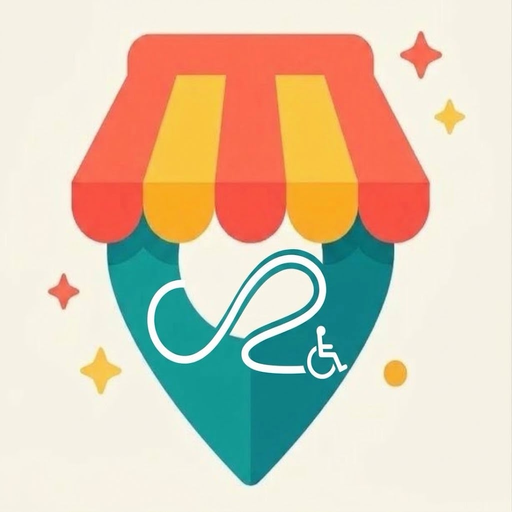
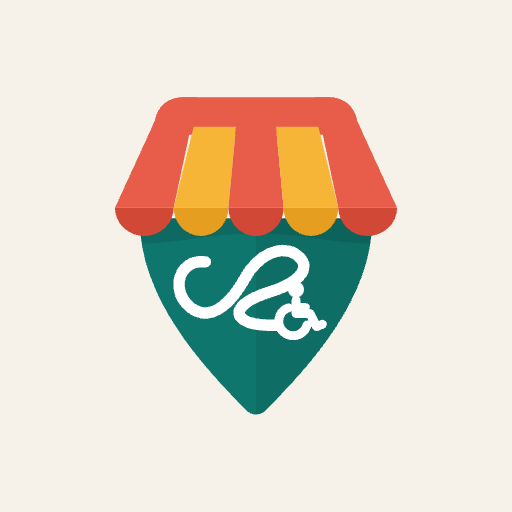
refactor: update branding and manifest settings
Update manifest theme colors, refresh icon assets, and clean up logo SVG implementation in index.html to align with new branding.

diff --git a/index.html b/index.html
@@ -33,22 +33,32 @@
   <div class="wrap bar">
     <a class="logo" href="#inicio" aria-label="VitrineCentro — página inicial">
       <svg class="logo-svg" viewBox="0 0 64 64" width="38" height="38" aria-hidden="true" focusable="false">
-        <path class="logo-spark-coral" d="M56 12 L57.4 15.2 L60.6 16.6 L57.4 18 L56 21.2 L54.6 18 L51.4 16.6 L54.6 15.2 Z" fill="#E85D4A"/>
-        <path class="logo-spark-sun" d="M8 38 L9.1 40.4 L11.5 41.5 L9.1 42.6 L8 45 L6.9 42.6 L4.5 41.5 L6.9 40.4 Z" fill="#F7B538"/>
-        <circle class="logo-spark-sun" cx="55" cy="46" r="2.3" fill="#F7B538"/>
-        <path class="logo-pin" d="M13 27 C13 38.5 22.8 49.6 30.3 57.6 C31.2 58.6 32.8 58.6 33.7 57.6 C41.2 49.6 51 38.5 51 27 Z" fill="#0F766E"/>
-        <path class="logo-pin-shade" d="M32 27 H51 C51 38.5 41.2 49.6 33.7 57.6 C33.1 58.2 32.5 58.4 32 58.4 Z" fill="#0B5D56" opacity="0.45"/>
-        <circle class="logo-pin-hole" cx="32" cy="35" r="8.6" fill="var(--header-bg, #FFFFFF)"/>
-        <path class="logo-coral" d="M15.2 10.6 C15.7 9 16.9 8 18.6 8 H21.8 L18.2 24 H9 Z" fill="#E85D4A"/>
-        <path class="logo-sun" d="M21.8 8 H28.6 L27.4 24 H18.2 Z" fill="#F7B538"/>
-        <path class="logo-coral" d="M28.6 8 H35.4 L36.6 24 H27.4 Z" fill="#E85D4A"/>
-        <path class="logo-sun" d="M35.4 8 H42.2 L45.8 24 H36.6 Z" fill="#F7B538"/>
-        <path class="logo-coral" d="M42.2 8 H45.4 C47.1 8 48.3 9 48.8 10.6 L55 24 H45.8 Z" fill="#E85D4A"/>
-        <path class="logo-coral-dark" d="M9 24 A4.6 4.6 0 0 0 18.2 24 Z" fill="#D14936"/>
-        <path class="logo-sun-dark" d="M18.2 24 A4.6 4.6 0 0 0 27.4 24 Z" fill="#E59E1F"/>
-        <path class="logo-coral-dark" d="M27.4 24 A4.6 4.6 0 0 0 36.6 24 Z" fill="#D14936"/>
-        <path class="logo-sun-dark" d="M36.6 24 A4.6 4.6 0 0 0 45.8 24 Z" fill="#E59E1F"/>
-        <path class="logo-coral-dark" d="M45.8 24 A4.6 4.6 0 0 0 55 24 Z" fill="#D14936"/>
+        <defs>
+          <clipPath id="vc-pin-clip-head">
+            <path d="M12.2 26.2 C12.2 39.8 22.8 51.2 30.4 58.9 C31.3 59.8 32.7 59.8 33.6 58.9 C41.2 51.2 51.8 39.8 51.8 26.2 Z"/>
+          </clipPath>
+        </defs>
+        <path class="logo-pin" d="M12.2 26.2 C12.2 39.8 22.8 51.2 30.4 58.9 C31.3 59.8 32.7 59.8 33.6 58.9 C41.2 51.2 51.8 39.8 51.8 26.2 Z" fill="#0F766E"/>
+        <g clip-path="url(#vc-pin-clip-head)">
+          <rect x="32" y="25" width="22" height="36" fill="#0B5D56" opacity="0.34"/>
+          <path d="M10 25 H54 V30.6 C45 30.6 41 28.8 32 28.8 C23 28.8 19 30.6 10 30.6 Z" fill="#084741" opacity="0.28"/>
+        </g>
+        <path class="logo-caminho" d="M23.4 33.6 C18.8 33.0 17.3 38.6 20.9 41.4 C24.3 44.0 27.8 40.6 30.1 36.4 C32.6 31.8 37.2 30.4 39.5 32.9 C41.5 35.1 38.6 37.4 34.4 38.7 C29.8 40.1 28.0 42.1 29.8 43.4 C31.1 44.3 33.3 44.4 35.6 44.4" fill="none" stroke="#FFFFFF" stroke-width="2.1" stroke-linecap="round" stroke-linejoin="round"/>
+        <circle class="logo-cadeirante" cx="38.8" cy="38.3" r="1.4" fill="#FFFFFF"/>
+        <path class="logo-cadeirante" d="M40.7 44.3 A2.45 2.45 0 1 1 37.5 41.4" fill="none" stroke="#FFFFFF" stroke-width="1.65" stroke-linecap="round"/>
+        <path class="logo-cadeirante" d="M38.8 40.1 V42.4 H41.2 L42.3 44.6 L43.3 44.2" fill="none" stroke="#FFFFFF" stroke-width="1.65" stroke-linecap="round" stroke-linejoin="round"/>
+        <path class="logo-cadeirante" d="M38.8 41.3 H40.5" fill="none" stroke="#FFFFFF" stroke-width="1.45" stroke-linecap="round"/>
+        <path class="logo-coral" d="M14.8 9.6 C15.3 7.0 17.2 5.6 19.6 5.6 H44.4 C46.8 5.6 48.7 7.0 49.2 9.6 L50.2 12.0 H13.8 Z" fill="#E85D4A"/>
+        <path class="logo-coral" d="M14.8 9.6 C15.3 7.0 17.2 5.6 19.6 5.6 H22.0 L18.0 24.4 H8.0 Z" fill="#E85D4A"/>
+        <path class="logo-sun" d="M21.4 10.6 H28.6 L27.3 24.4 H18.0 Z" fill="#F7B538"/>
+        <path class="logo-coral" d="M28.6 10.6 H35.4 L36.7 24.4 H27.3 Z" fill="#E85D4A"/>
+        <path class="logo-sun" d="M35.4 10.6 H42.6 L46.0 24.4 H36.7 Z" fill="#F7B538"/>
+        <path class="logo-coral" d="M42.0 5.6 H44.4 C46.8 5.6 48.7 7.0 49.2 9.6 L56.0 24.4 H46.0 Z" fill="#E85D4A"/>
+        <path class="logo-coral-dark" d="M8.0 24.4 A5.0 4.8 0 0 0 18.0 24.4 Z" fill="#D14936"/>
+        <path class="logo-sun-dark" d="M18.0 24.4 A4.65 4.8 0 0 0 27.3 24.4 Z" fill="#E59E1F"/>
+        <path class="logo-coral-dark" d="M27.3 24.4 A4.7 4.8 0 0 0 36.7 24.4 Z" fill="#D14936"/>
+        <path class="logo-sun-dark" d="M36.7 24.4 A4.65 4.8 0 0 0 46.0 24.4 Z" fill="#E59E1F"/>
+        <path class="logo-coral-dark" d="M46.0 24.4 A5.0 4.8 0 0 0 56.0 24.4 Z" fill="#D14936"/>
       </svg>
       <span class="logo-texto"><span class="logo-vitrine">Vitrine</span><span class="logo-centro">Centro</span></span>
     </a>
@@ -160,18 +170,32 @@
     <div class="rodape-topo">
       <div class="rodape-marca">
         <svg class="logo-svg logo-svg-sm" viewBox="0 0 64 64" width="28" height="28" aria-hidden="true" focusable="false">
-          <path class="logo-pin" d="M13 27 C13 38.5 22.8 49.6 30.3 57.6 C31.2 58.6 32.8 58.6 33.7 57.6 C41.2 49.6 51 38.5 51 27 Z" fill="#0F766E"/>
-          <circle class="logo-pin-hole" cx="32" cy="35" r="8.6" fill="var(--card, #FFFFFF)"/>
-          <path class="logo-coral" d="M15.2 10.6 C15.7 9 16.9 8 18.6 8 H21.8 L18.2 24 H9 Z" fill="#E85D4A"/>
-          <path class="logo-sun" d="M21.8 8 H28.6 L27.4 24 H18.2 Z" fill="#F7B538"/>
-          <path class="logo-coral" d="M28.6 8 H35.4 L36.6 24 H27.4 Z" fill="#E85D4A"/>
-          <path class="logo-sun" d="M35.4 8 H42.2 L45.8 24 H36.6 Z" fill="#F7B538"/>
-          <path class="logo-coral" d="M42.2 8 H45.4 C47.1 8 48.3 9 48.8 10.6 L55 24 H45.8 Z" fill="#E85D4A"/>
-          <path class="logo-coral-dark" d="M9 24 A4.6 4.6 0 0 0 18.2 24 Z" fill="#D14936"/>
-          <path class="logo-sun-dark" d="M18.2 24 A4.6 4.6 0 0 0 27.4 24 Z" fill="#E59E1F"/>
-          <path class="logo-coral-dark" d="M27.4 24 A4.6 4.6 0 0 0 36.6 24 Z" fill="#D14936"/>
-          <path class="logo-sun-dark" d="M36.6 24 A4.6 4.6 0 0 0 45.8 24 Z" fill="#E59E1F"/>
-          <path class="logo-coral-dark" d="M45.8 24 A4.6 4.6 0 0 0 55 24 Z" fill="#D14936"/>
+          <defs>
+            <clipPath id="vc-pin-clip-foot">
+              <path d="M12.2 26.2 C12.2 39.8 22.8 51.2 30.4 58.9 C31.3 59.8 32.7 59.8 33.6 58.9 C41.2 51.2 51.8 39.8 51.8 26.2 Z"/>
+            </clipPath>
+          </defs>
+          <path class="logo-pin" d="M12.2 26.2 C12.2 39.8 22.8 51.2 30.4 58.9 C31.3 59.8 32.7 59.8 33.6 58.9 C41.2 51.2 51.8 39.8 51.8 26.2 Z" fill="#0F766E"/>
+          <g clip-path="url(#vc-pin-clip-foot)">
+            <rect x="32" y="25" width="22" height="36" fill="#0B5D56" opacity="0.34"/>
+            <path d="M10 25 H54 V30.6 C45 30.6 41 28.8 32 28.8 C23 28.8 19 30.6 10 30.6 Z" fill="#084741" opacity="0.28"/>
+          </g>
+          <path class="logo-caminho" d="M23.4 33.6 C18.8 33.0 17.3 38.6 20.9 41.4 C24.3 44.0 27.8 40.6 30.1 36.4 C32.6 31.8 37.2 30.4 39.5 32.9 C41.5 35.1 38.6 37.4 34.4 38.7 C29.8 40.1 28.0 42.1 29.8 43.4 C31.1 44.3 33.3 44.4 35.6 44.4" fill="none" stroke="#FFFFFF" stroke-width="2.25" stroke-linecap="round" stroke-linejoin="round"/>
+          <circle class="logo-cadeirante" cx="38.8" cy="38.3" r="1.45" fill="#FFFFFF"/>
+          <path class="logo-cadeirante" d="M40.7 44.3 A2.45 2.45 0 1 1 37.5 41.4" fill="none" stroke="#FFFFFF" stroke-width="1.75" stroke-linecap="round"/>
+          <path class="logo-cadeirante" d="M38.8 40.1 V42.4 H41.2 L42.3 44.6 L43.3 44.2" fill="none" stroke="#FFFFFF" stroke-width="1.75" stroke-linecap="round" stroke-linejoin="round"/>
+          <path class="logo-cadeirante" d="M38.8 41.3 H40.5" fill="none" stroke="#FFFFFF" stroke-width="1.55" stroke-linecap="round"/>
+          <path class="logo-coral" d="M14.8 9.6 C15.3 7.0 17.2 5.6 19.6 5.6 H44.4 C46.8 5.6 48.7 7.0 49.2 9.6 L50.2 12.0 H13.8 Z" fill="#E85D4A"/>
+          <path class="logo-coral" d="M14.8 9.6 C15.3 7.0 17.2 5.6 19.6 5.6 H22.0 L18.0 24.4 H8.0 Z" fill="#E85D4A"/>
+          <path class="logo-sun" d="M21.4 10.6 H28.6 L27.3 24.4 H18.0 Z" fill="#F7B538"/>
+          <path class="logo-coral" d="M28.6 10.6 H35.4 L36.7 24.4 H27.3 Z" fill="#E85D4A"/>
+          <path class="logo-sun" d="M35.4 10.6 H42.6 L46.0 24.4 H36.7 Z" fill="#F7B538"/>
+          <path class="logo-coral" d="M42.0 5.6 H44.4 C46.8 5.6 48.7 7.0 49.2 9.6 L56.0 24.4 H46.0 Z" fill="#E85D4A"/>
+          <path class="logo-coral-dark" d="M8.0 24.4 A5.0 4.8 0 0 0 18.0 24.4 Z" fill="#D14936"/>
+          <path class="logo-sun-dark" d="M18.0 24.4 A4.65 4.8 0 0 0 27.3 24.4 Z" fill="#E59E1F"/>
+          <path class="logo-coral-dark" d="M27.3 24.4 A4.7 4.8 0 0 0 36.7 24.4 Z" fill="#D14936"/>
+          <path class="logo-sun-dark" d="M36.7 24.4 A4.65 4.8 0 0 0 46.0 24.4 Z" fill="#E59E1F"/>
+          <path class="logo-coral-dark" d="M46.0 24.4 A5.0 4.8 0 0 0 56.0 24.4 Z" fill="#D14936"/>
         </svg>
         <p><strong class="logo-rodape-nome"><span class="logo-vitrine">Vitrine</span><span class="logo-centro">Centro</span></strong> — guia prático do comércio do Centro, funciona offline, sem login e sem rastreamento.</p>
       </div>
